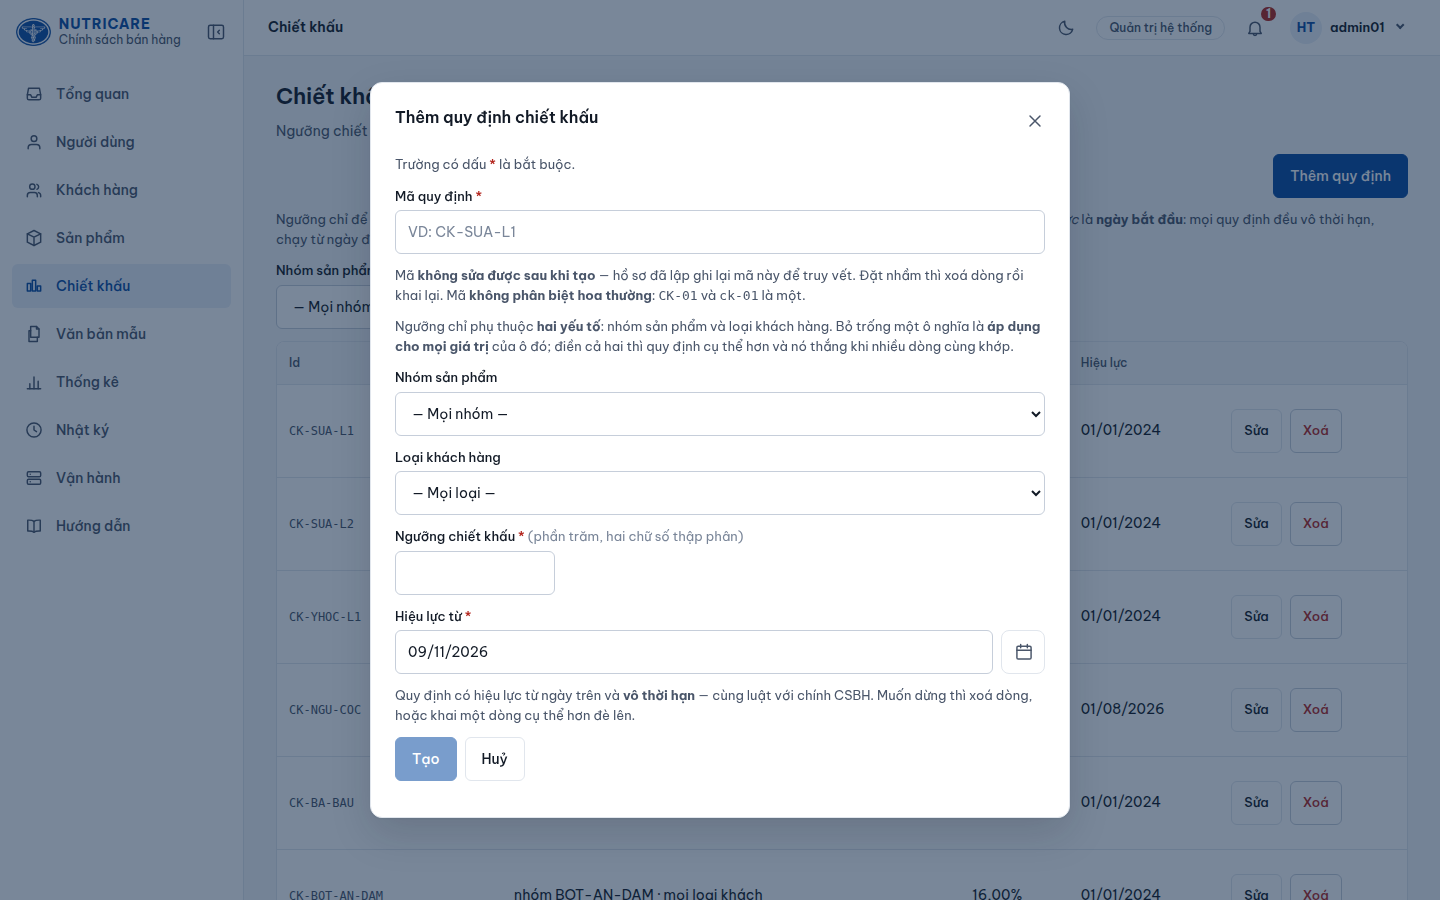
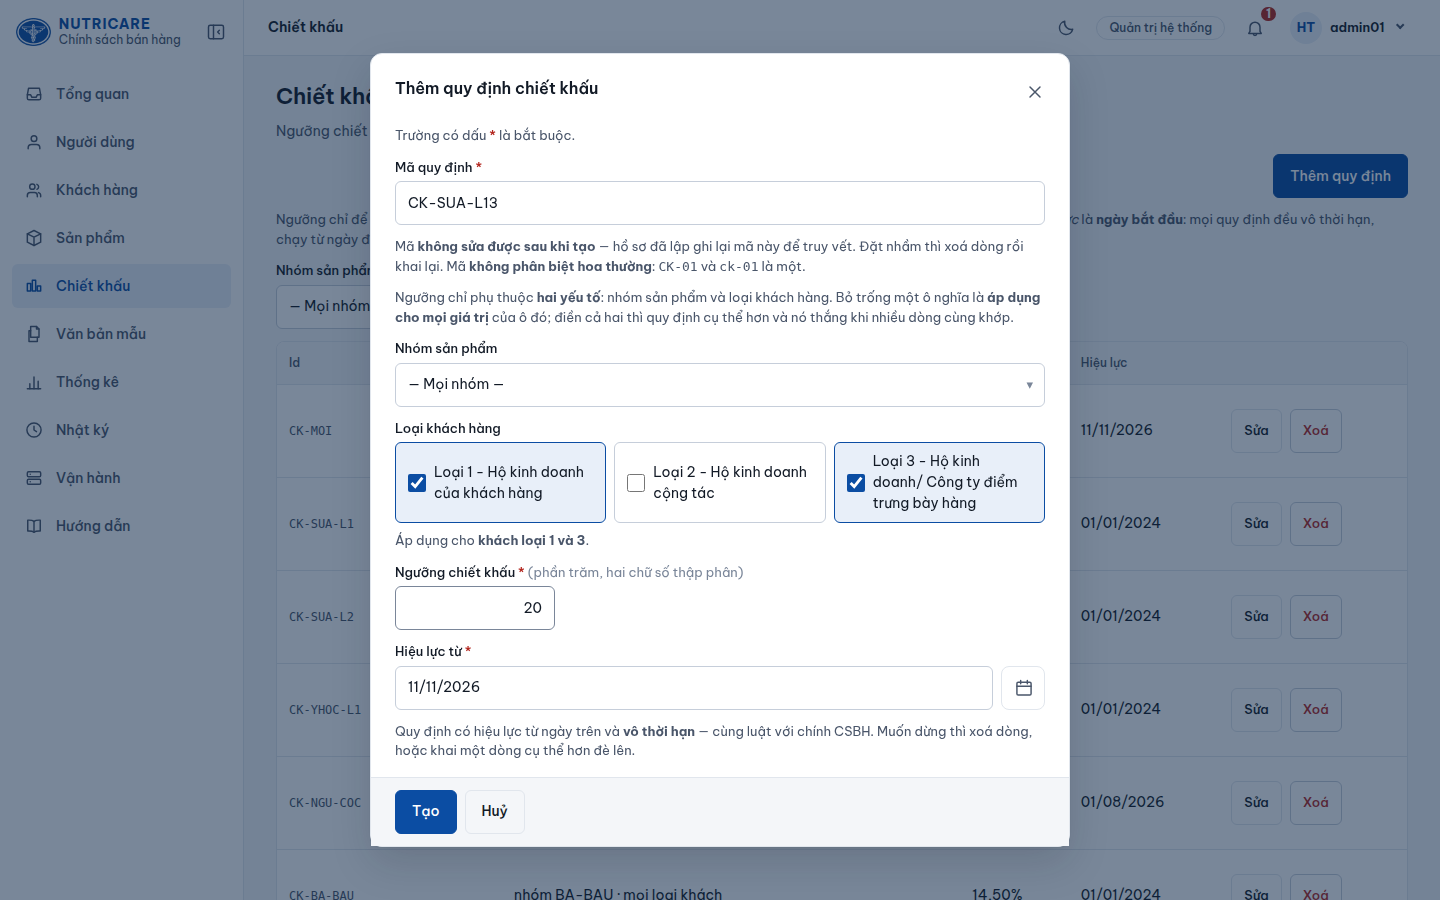
P323: ra soat huong dan theo P319-P322, chup lai bon anh (0282)

diff --git a/impl/apps/web/src/lib/huong-dan.ts b/impl/apps/web/src/lib/huong-dan.ts
@@ -88,6 +88,7 @@ export const HUONG_DAN_CHUNG: MucChung[] = [
       'Thanh bên trái liệt kê các trang bạn được dùng, tuỳ vai trò. Bấm nút ở đầu thanh để thu gọn thành cột biểu tượng khi cần thêm chỗ cho bảng.',
       'Chuông ở thanh trên báo việc mới: số trên chuông là số việc đang chờ bạn xử lý, dấu chấm nghĩa là có tin để bạn biết. Bấm vào một dòng để mở thẳng hồ sơ liên quan.',
       'Giao diện sáng hoặc tối đổi ở menu tài khoản. Trên điện thoại, thanh bên là ngăn kéo mở bằng nút ba gạch.',
+      'Các ô chọn có danh sách dài (tỉnh/thành phố, sản phẩm, nhóm sản phẩm, người duyệt…) cho gõ để tìm: bấm vào ô, gõ vài chữ rồi bấm hoặc dùng mũi tên và Enter để chọn. Gõ không dấu cũng ra, ví dụ “ha noi” ra Hà Nội. Esc đóng danh sách. Chữ gõ chỉ để tìm, bạn vẫn phải chọn một mục trong danh sách.',
       'Trong hộp thoại, bấm ra ngoài không đóng hộp. Muốn thoát thì bấm Huỷ, nút × hoặc phím Esc, để không mất dở dang những gì đang gõ.',
     ],
   },
@@ -198,7 +199,7 @@ const TDV: HuongDanVaiTro = {
           noiDung: [
             'Vào Khách hàng, bấm nút lập mới rồi điền: mã khách hàng, tên hộ kinh doanh hoặc tên công ty, loại khách hàng, Tỉnh/Thành phố, Số nhà và Phường xã, người đại diện, chức danh, mã số thuế, số điện thoại.',
             'Mã số thuế bắt buộc và không được trùng khách đang hợp tác. Gõ xong phần mềm kiểm ngay, trùng thì báo dưới ô và nút Lưu không bấm được.',
-            'Tỉnh/Thành phố là ô chọn trong danh sách 63 đơn vị, theo tên cũ như trên giấy đăng ký kinh doanh. Số điện thoại không bắt buộc, nhưng nếu điền thì phải đủ 10 chữ số.',
+            'Tỉnh/Thành phố (theo phân cách hành chính cũ) là ô chọn trong danh sách 63 đơn vị, theo tên cũ như trên giấy đăng ký kinh doanh. Bấm vào ô rồi gõ vài chữ để tìm, gõ không dấu cũng được. Số điện thoại không bắt buộc, nhưng nếu điền thì phải đủ 10 chữ số.',
             'Chức danh chọn Giám đốc hoặc Chủ hộ kinh doanh. Chức danh khác thì chọn “Khác (tự nhập)” và gõ vào ô hiện ra.',
           ],
           anh: ANH('tdv/khach-hang-danh-sach.png', 'Danh sách khách hàng của Trình dược viên.'),
@@ -262,7 +263,7 @@ const TDV: HuongDanVaiTro = {
         {
           tieuDe: 'Thêm một dòng sản phẩm',
           noiDung: [
-            'Trên trang hồ sơ, bấm Thêm sản phẩm. Chọn sản phẩm rồi nhập Giá bán buôn và các khoản CPBH. Giá bán Công ty hiện ngay trên ô giá bán buôn để bạn đối chiếu.',
+            'Trên trang hồ sơ, bấm Thêm sản phẩm. Chọn sản phẩm (gõ mã hoặc một phần tên để tìm) rồi nhập Giá bán buôn và các khoản CPBH. Giá bán Công ty hiện ngay trên ô giá bán buôn để bạn đối chiếu.',
             'Bốn con số CPBH, Giá thu về, Tỷ lệ CK và QĐCK hiện ngay trong hộp thoại, trước khi bạn bấm Xác nhận. Đó chính là những con số sẽ nằm trong bảng.',
             'Gõ số tiền thì gõ số trần, ví dụ 1000000. Dòng nhỏ dưới ô sẽ cho bạn thấy số đã phân nhóm (1.000.000) để soát số 0.',
             'Số khoản CPBH tuỳ dòng: bấm “Thêm khoản chi phí” để có thêm ô, “Bớt” để bỏ. Mỗi khoản có thể ghi thêm một câu Nội dung ngắn, khi đó cạnh con số trên bảng có dấu ? để người duyệt đọc.',
@@ -321,7 +322,7 @@ const TDV: HuongDanVaiTro = {
         {
           tieuDe: 'Gửi duyệt',
           noiDung: [
-            'Bấm Gửi duyệt ở đầu trang hồ sơ. Hộp thoại mở ra để bạn chọn hai người: Trưởng bộ phận duyệt (người sẽ ký số) và Kế toán tiếp nhận (nhận cả lần 1 và lần 2).',
+            'Bấm Gửi duyệt ở đầu trang hồ sơ. Hộp thoại mở ra để bạn chọn hai người (gõ tên để tìm): Trưởng bộ phận duyệt (người sẽ ký số) và Kế toán tiếp nhận (nhận cả lần 1 và lần 2).',
             'Chỉ người bạn chọn mới thấy hồ sơ này trong hộp việc của họ. Nút Xác nhận chỉ bấm được khi đã chọn đủ cả hai.',
             'Gửi xong hồ sơ rời trạng thái Nháp, và bạn không sửa được nữa cho tới khi nó bị trả về.',
           ],
@@ -1635,7 +1636,7 @@ const QUAN_TRI: HuongDanVaiTro = {
         {
           tieuDe: 'Thêm sản phẩm',
           noiDung: [
-            'Bấm Thêm sản phẩm, điền mã vật tư, tên, nhóm và giá bán Công ty. Giá bắt buộc ngay khi tạo, và ngày áp dụng luôn là hôm nay. Mã vật tư không sửa được sau khi tạo vì hồ sơ CSBH đã lập đóng băng mã này.',
+            'Bấm Thêm sản phẩm, điền mã vật tư, tên, nhóm (gõ tên hoặc mã nhóm để tìm) và giá bán Công ty. Giá bắt buộc ngay khi tạo, và ngày áp dụng luôn là hôm nay. Mã vật tư không sửa được sau khi tạo vì hồ sơ CSBH đã lập đóng băng mã này.',
             'Danh mục chỉ có một loại giá là giá bán Công ty. Giá bán buôn do Trình dược viên nhập trong từng hồ sơ, không khai ở đây.',
           ],
           anh: ANH('quan-tri/them-san-pham.png', 'Hộp thoại Thêm sản phẩm.'),
@@ -1677,7 +1678,7 @@ const QUAN_TRI: HuongDanVaiTro = {
         {
           tieuDe: 'Hiểu một quy định',
           noiDung: [
-            'Mỗi quy định là một ngưỡng chiết khấu cho một phạm vi: một nhóm sản phẩm, một loại khách hàng, hoặc cả hai. Ô để trống nghĩa là mọi giá trị. Đây là nguồn ngưỡng duy nhất: sản phẩm không có quy định nào phủ thì dòng hồ sơ của nó không có ngưỡng.',
+            'Mỗi quy định là một ngưỡng chiết khấu cho một phạm vi: một nhóm sản phẩm, một hoặc nhiều loại khách hàng, hoặc cả hai. Ô để trống nghĩa là mọi giá trị; với loại khách hàng, không tích loại nào hoặc tích đủ cả ba đều là mọi loại. Đây là nguồn ngưỡng duy nhất: sản phẩm không có quy định nào phủ thì dòng hồ sơ của nó không có ngưỡng.',
             'Nhiều quy định cùng khớp một tình huống là bình thường. Quy định cụ thể hơn thắng: nhóm sản phẩm mạnh hơn loại khách hàng. Khi bằng nhau thì quy định mới hơn thắng.',
             'Vượt ngưỡng không bị chặn, chỉ được đánh dấu đỏ cho người duyệt nhìn thấy.',
           ],
@@ -1687,13 +1688,14 @@ const QUAN_TRI: HuongDanVaiTro = {
           tieuDe: 'Thêm quy định',
           noiDung: [
             'Bấm Thêm quy định. Mã quy định do bạn đặt, nên đặt mã đọc được và nói lên phạm vi, ví dụ CK-SUA-L1, vì mã này hiện lại trong cột QĐCK của từng dòng hồ sơ. Mã không phân biệt hoa thường và không sửa được sau khi tạo.',
-            'Khai trùng đúng phạm vi và đúng ngày hiệu lực với một dòng đã có thì hệ thống từ chối. Hãy sửa ngưỡng của dòng đang có, hoặc khai ngày hiệu lực muộn hơn để đè lên. Ô để trống cũng tính là trùng.',
+            'Loại khách hàng là ba ô tích: tích loại 1 và loại 3 là một quy định, một mã, một ngưỡng cho cả hai loại, không phải hai quy định. Câu dưới ô nói rõ quy định sẽ áp cho loại nào. Khai trùng phạm vi và ngày hiệu lực với một dòng đã có thì hệ thống từ chối, và trùng được tính theo từng loại: đã có quy định loại 1 và 3 cho nhóm ấy thì khai thêm quy định loại 3 bị từ chối, còn loại 2 thì được. Hãy sửa ngưỡng của dòng đang có, hoặc khai ngày hiệu lực muộn hơn để đè lên. Ô để trống cũng tính là trùng.',
           ],
           anh: ANH('quan-tri/them-quy-dinh.png', 'Hộp thoại Thêm quy định chiết khấu.'),
         },
         {
           tieuDe: 'Sửa và xoá',
           noiDung: [
+            'Bấm Sửa để đổi ngưỡng, ngày hiệu lực, nhóm sản phẩm và loại khách hàng (ba ô tích, đặt sẵn đúng các loại đang có). Chỉ mã quy định là không sửa được. Đổi nhóm hoặc loại khách là đổi thứ tự ưu tiên của quy định, và đổi vào đúng phạm vi và ngày của một quy định khác thì hệ thống từ chối.',
             'Sửa và xoá không làm đổi hồ sơ đã lập, vì mỗi dòng hồ sơ giữ ngưỡng đã chụp lúc lập. Thay đổi chỉ áp cho hồ sơ lập từ đây về sau.',
             'Xoá đòi gõ lại mã quy định. Hồ sơ đã gửi duyệt còn dùng quy định ấy sẽ hiện trong khối Yêu cầu cập nhật của người phụ trách, với ngưỡng mới là rỗng. Hệ thống không gửi thư báo việc này.',
           ],
@@ -1775,7 +1777,7 @@ const QUAN_TRI: HuongDanVaiTro = {
         {
           tieuDe: 'Tra nhật ký',
           noiDung: [
-            'Nhật ký giữ 6 tháng gần nhất và mở mặc định ở tháng này. Cột Người thực hiện hiện họ tên, dòng nhỏ bên dưới là tên đăng nhập và vai trò.',
+            'Nhật ký giữ 6 tháng gần nhất và mở mặc định ở tháng này. Cột Người thực hiện hiện họ tên, dòng nhỏ bên dưới là tên đăng nhập và vai trò. Ba ô lọc Người thực hiện, Hành động và Đối tượng cho gõ để tìm.',
             'Bấm Xem thay đổi ở những dòng có sửa dữ liệu để đọc giá trị trước và sau, kèm lý do. Bấm mã tra cứu để xem cả chuỗi: một thao tác của người dùng thường sinh ra nhiều dòng ở nhiều phần khác nhau của hệ thống, và mã này nối chúng lại.',
             'Nhật ký chỉ đọc tại chỗ, không có nút xuất file. Khi người dùng báo lỗi, hãy hỏi họ đang làm gì và lúc mấy giờ, rồi tìm theo tên tài khoản và thời gian.',
           ],

diff --git a/agents/NHAT-KY-TRIEN-KHAI.md b/agents/NHAT-KY-TRIEN-KHAI.md
@@ -22637,3 +22637,12 @@ Khách hàng chọn **hướng đổi mô hình** (không tạo nhiều dòng) s
 **Lượt `make test` đầu: 8 đỏ, không cái nào là lỗi mã** — hai ca `policy.test.ts` vẫn khai quy định bằng `customerType` đơn (khai trùng "mọi loại" nên 409), hai ca quét mã nguồn `tinh-thanh.test.ts` đòi `<select>` và `<option value="">` (đổi sang canh *không tự điền*: ô mới không có mục rỗng), và ca đếm migration trong tài liệu (83 → 84; **một chỗ viết `**83**` có dấu sao nên `sed` bản thường bỏ sót**).
 
 **3519/3519 xanh** (`make test` đầy đủ, demo tắt).
+
+
+## P323 — `0282` Rà soát *Hướng dẫn* theo P319–P322 — CHỈ FRONTEND + TÀI LIỆU
+
+Rà trang *Hướng dẫn* trong ứng dụng (`lib/huong-dan.ts`) và ảnh chụp theo năm thay đổi vừa qua. **Chữ**: mục chung *Làm quen với màn hình* thêm đoạn nói về ô chọn có gõ (bấm, gõ, gõ không dấu, Esc, và *chữ gõ chỉ để tìm*); Tỉnh/Thành phố đổi nhãn và nói gõ để tìm; nhắc "gõ để tìm" ở các bước thêm sản phẩm, gửi duyệt, thêm sản phẩm vào danh mục, Nhật ký; trang *Chiết khấu* sửa ba chỗ — một quy định mang **một hoặc nhiều loại khách**, hộp *Thêm* dùng ba ô tích và trùng tính theo từng loại, hộp *Sửa* đổi được nhóm và loại (chỉ mã là không). **Ảnh**: chụp lại bốn ảnh trên demo thật (Chrome không giao diện, `--hide-scrollbars` cho khớp bộ ảnh cũ) — `tdv/them-dong-san-pham` (hết ngăn trượt), `tdv/gui-duyet` (ô chọn người có gõ), `quan-tri/them-quy-dinh` (ba ô tích), `quan-tri/them-san-pham` (ô nhóm có gõ). **Không chụp lại** các ảnh mà chỗ đổi chỉ là hình dạng ô chọn (`sale-admin/tao-ban-mem`, `ke-toan/xuat-hop-dong-hop-thoai`, `quan-tri/nhat-ky`, `quan-tri/chiet-khau`): `<select>` và ô chọn có gõ trông gần giống nhau ở trạng thái đóng, chỉ thêm mũi tên nhỏ. Cột Excel đã gỡ (P320) không có trong *Hướng dẫn* trong ứng dụng; `docs/03` đã sửa từ trước.
+
+Ảnh `them-quy-dinh` có một dòng `CK-MOI` (loại 1 và 2, 20%) phía sau hộp thoại — quy định do người dùng tự khai trên demo, **không xoá**.
+
+**1215/1215 ca giao diện xanh.**
